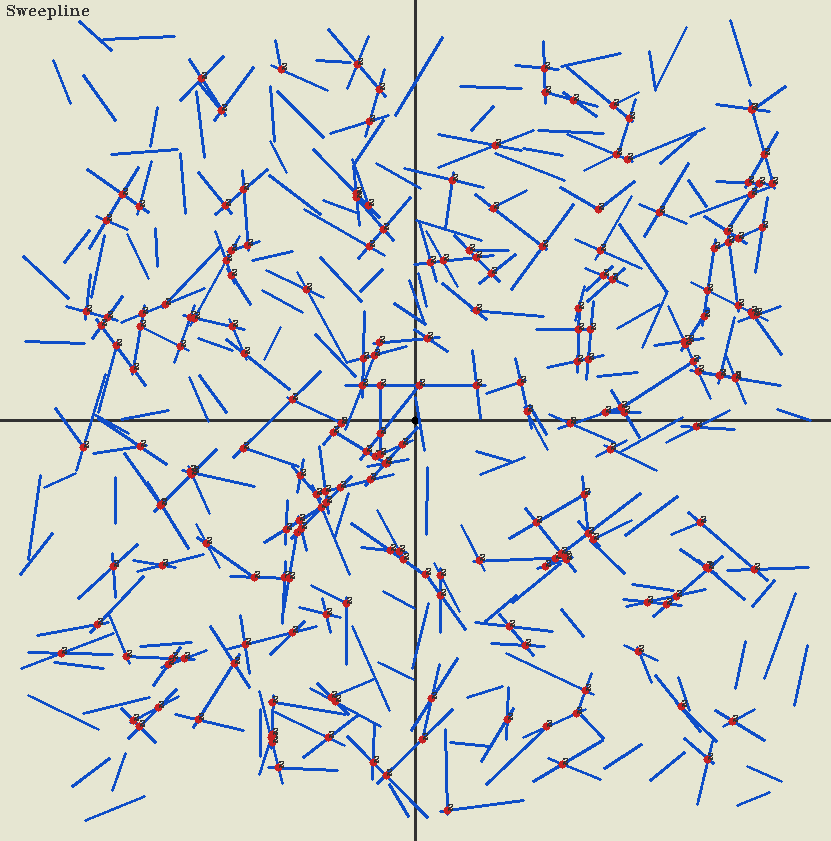
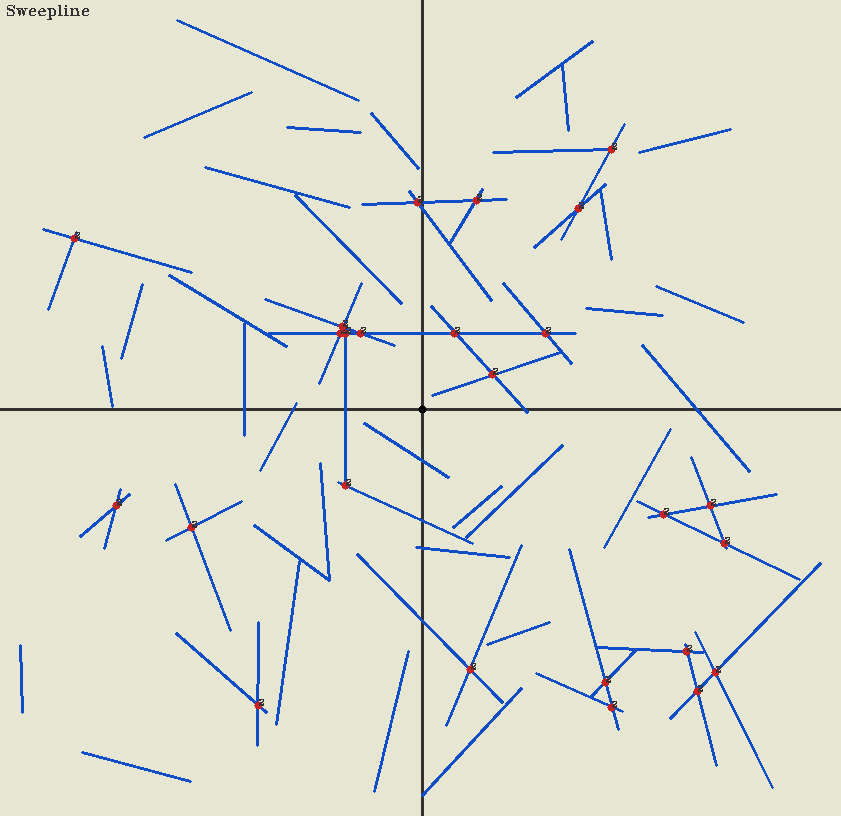
code mod

diff --git a/main.cpp b/main.cpp
@@ -308,6 +308,95 @@ void sweepline_test(float range, float expand, int repeat_experiments, bool visu
 	}
 }
 
+std::vector<GeoChain::Algorithms::PlaneSweeper> multi_sweepline(
+		std::vector<std::vector<GeoChain::Euclidean::Segment>> *ptr_seg_vecs) {
+	using namespace GeoChain;
+	using namespace Algorithms;
+	using namespace Euclidean;
+
+	std::vector<PlaneSweeper> plane_sweeper_list;
+	std::vector<int> step_counter_list;
+	std::vector<bool> continue_flag_list;
+	for (auto &&ptr_ : *ptr_seg_vecs) {
+		PointSegmentAffiliation root_event(EUC2D, ptr_.size());
+		Segment root_status(EUC2D);
+		Node<PointSegmentAffiliation> ROOT_EVENT(&root_event);
+		Node<Segment> ROOT_STATUS(&root_status);
+		PlaneSweeper plane_sweeper(EUC2D, &ptr_, &ROOT_EVENT, PointComparer2D, &ROOT_STATUS);
+		plane_sweeper_list.push_back(plane_sweeper);
+		step_counter_list.push_back(0);
+		continue_flag_list.push_back(true);
+	}
+
+	for (int i = 0; i < plane_sweeper_list.size(); i++) {
+		if (continue_flag_list[i] & plane_sweeper_list[i].Update()) {
+			step_counter_list[i]++;
+		} else {
+			continue_flag_list[i] = false;
+		}
+	}
+	return plane_sweeper_list;
+}
+
+void multi_sweepline_test(float range, float expand, int repeat_experiments, bool visual_opt = false) {
+	using namespace GeoChain;
+	using namespace Algorithms;
+	using namespace Euclidean;
+
+	std::vector<Segment> segments;
+	srand((unsigned)time(NULL));
+	float unit = 1.0;
+	float thresh = 0.3;
+	double rand_unit_;
+
+	std::vector<Visualizer2D> visual_list;
+	std::vector<std::vector<Segment>> seg_vecs;
+	for (int r_ = 0; r_ < repeat_experiments; r_++) {
+		std::vector<Point> attendents;
+		for (int c_ = -range; c_ <= range; c_ += unit) {
+			for (int r_ = -range; r_ <= range; r_ += unit) {
+				rand_unit_ = rand() / double(RAND_MAX);
+				float coord_x_1 = c_ + (rand_unit_ - 0.5) * expand * unit;
+				rand_unit_ = rand() / double(RAND_MAX);
+				float coord_y_1 = r_ + (rand_unit_ - 0.5) * expand * unit;
+				rand_unit_ = rand() / double(RAND_MAX);
+				float coord_x_2 = c_ + (rand_unit_ - 0.5) * expand * unit;
+				rand_unit_ = rand() / double(RAND_MAX);
+				float coord_y_2 = r_ + (rand_unit_ - 0.5) * expand * unit;
+				LOG(WARNING) << "RANDOM: (" << coord_x_1 << " " << coord_y_1 << ") (" << coord_x_2 << " " << coord_y_2 << ")";
+				Point pt_1(EUC2D, coord_x_1, coord_y_1);
+				Point pt_2(EUC2D, coord_x_2, coord_y_2);
+				if (EuclideanDistance(pt_1, pt_2) > thresh * expand) {
+					segments.push_back(Segment(EUC2D, DESC, pt_1, pt_2));
+					attendents.push_back(pt_1);
+					attendents.push_back(pt_2);
+				}
+			}
+		}
+
+		Visualizer2D visual(attendents, g_GlobalVars.visualize_standardize, g_GlobalVars.visualize_spacer);
+		visual.Init();
+		for (auto &&s : segments) {
+			visual.Draw(s);
+		}
+		visual_list.push_back(visual);
+		seg_vecs.push_back(segments);
+	}
+
+	std::vector<PlaneSweeper> plane_sweeper_list = multi_sweepline(&seg_vecs);
+	for (int i_; i_ < plane_sweeper_list.size(); i_++) {
+		for (auto &&e_ : plane_sweeper_list[i_].events_list_) {
+			if (e_.num_ >= 2) {
+				visual_list[i_].Draw(*(e_.point_), std::to_string(e_.num_));
+			}
+		}
+		if (visual_opt) {
+			visual_list[i_].Visualize("Sweepline", "Topics/Line Segment Intersection/Sweepline.png");
+			cv::destroyAllWindows();
+		}
+	}
+}
+
 // ================ Doubly-Connected Edge List ================
 
 void dbconnected_edgelist_test() {
@@ -364,11 +453,13 @@ int main(int argc, char **argv) {
 
 	// line segment intersection test part
 	sweepline_test(4.0, 2.5, 50, true);
-	for (float exp_ = 2.4; exp_ < 3.5; exp_ += 0.1) {
-		for (int expr_ = 0; expr_ < 1; expr_ += 1) {
-			sweepline_test(10.0, exp_, 10, true);	// atof(argv[1]), atoi(argv[2])
-		}
-	}
+	// for (float exp_ = 1.0; exp_ < 3.5; exp_ += 0.1) {
+	// 	for (int expr_ = 0; expr_ < 1; expr_ += 1) {
+	// 		sweepline_test(10.0, exp_, 10, true);	// atof(argv[1]), atoi(argv[2])
+	// 	}
+	// }
+
+	// multi_sweepline_test(5.0, 2.5, 1, true);
 
 	// dbconnected_edgelist_test();
 }

diff --git a/Vessels/DoublyConnectedEdgeList.h b/Vessels/DoublyConnectedEdgeList.h
@@ -152,10 +152,18 @@ class DoublyConnectedEdgeList {
 	std::map<Point *, std::vector<Segment *>> VertexList_;
 	std::map<Segment *, HalfEdge> EdgeList_;
 
-	static void findFaces(std::map<int, std::map<int, Segment *>> *relation_trace,
-												std::map<Segment *, HalfEdge> *edge_list) {
+	static void findOneFace(std::map<int, std::map<int, Segment *>> *relation_trace,
+													std::map<Segment *, HalfEdge> *edge_list) {
 		std::map<int, std::map<int, Segment *>>::iterator iter_1;
 		std::map<int, Segment *>::iterator iter_2;
+		if (relation_trace->size() > 0) {
+			std::map<int, std::map<int, Segment *>>::iterator iter_1 = relation_trace->begin();
+			int this_start_vertex_idx = iter_1->first;
+			if (relation_trace->size() > 0) {
+				std::map<int, Segment *>::iterator iter_2 = iter_1->second.begin();
+				int this_next_vertex_idx = iter_2->first;
+			}
+		}
 		for (iter_1 = relation_trace->begin(); iter_1 != relation_trace->end(); iter_1++) {
 			int r_1 = iter_1->first;
 			for (iter_2 = iter_1->second.begin(); iter_2 != iter_1->second.end(); iter_2++) {

diff --git a/Utils/LogGuardian.h b/Utils/LogGuardian.h
@@ -3,7 +3,7 @@
 
 #include <glog/logging.h>
 
-#define GOOGLE_GLOG_DLL_DECL
+// #define GOOGLE_GLOG_DLL_DECL
 #define GLOG_NO_ABBREVIATED_SEVERITIES
 
 // #ifdef DEBUG
@@ -45,7 +45,7 @@ class LogGuardian {
 		// (prefix.str() + "_FATAL").c_str());
 
 		// extension between prefix and timestamp
-		google::SetLogFilenameExtension("@");
+		// google::SetLogFilenameExtension("@");
 		// stdoutput level
 		google::SetStderrLogging(google::GLOG_INFO);
 	}
